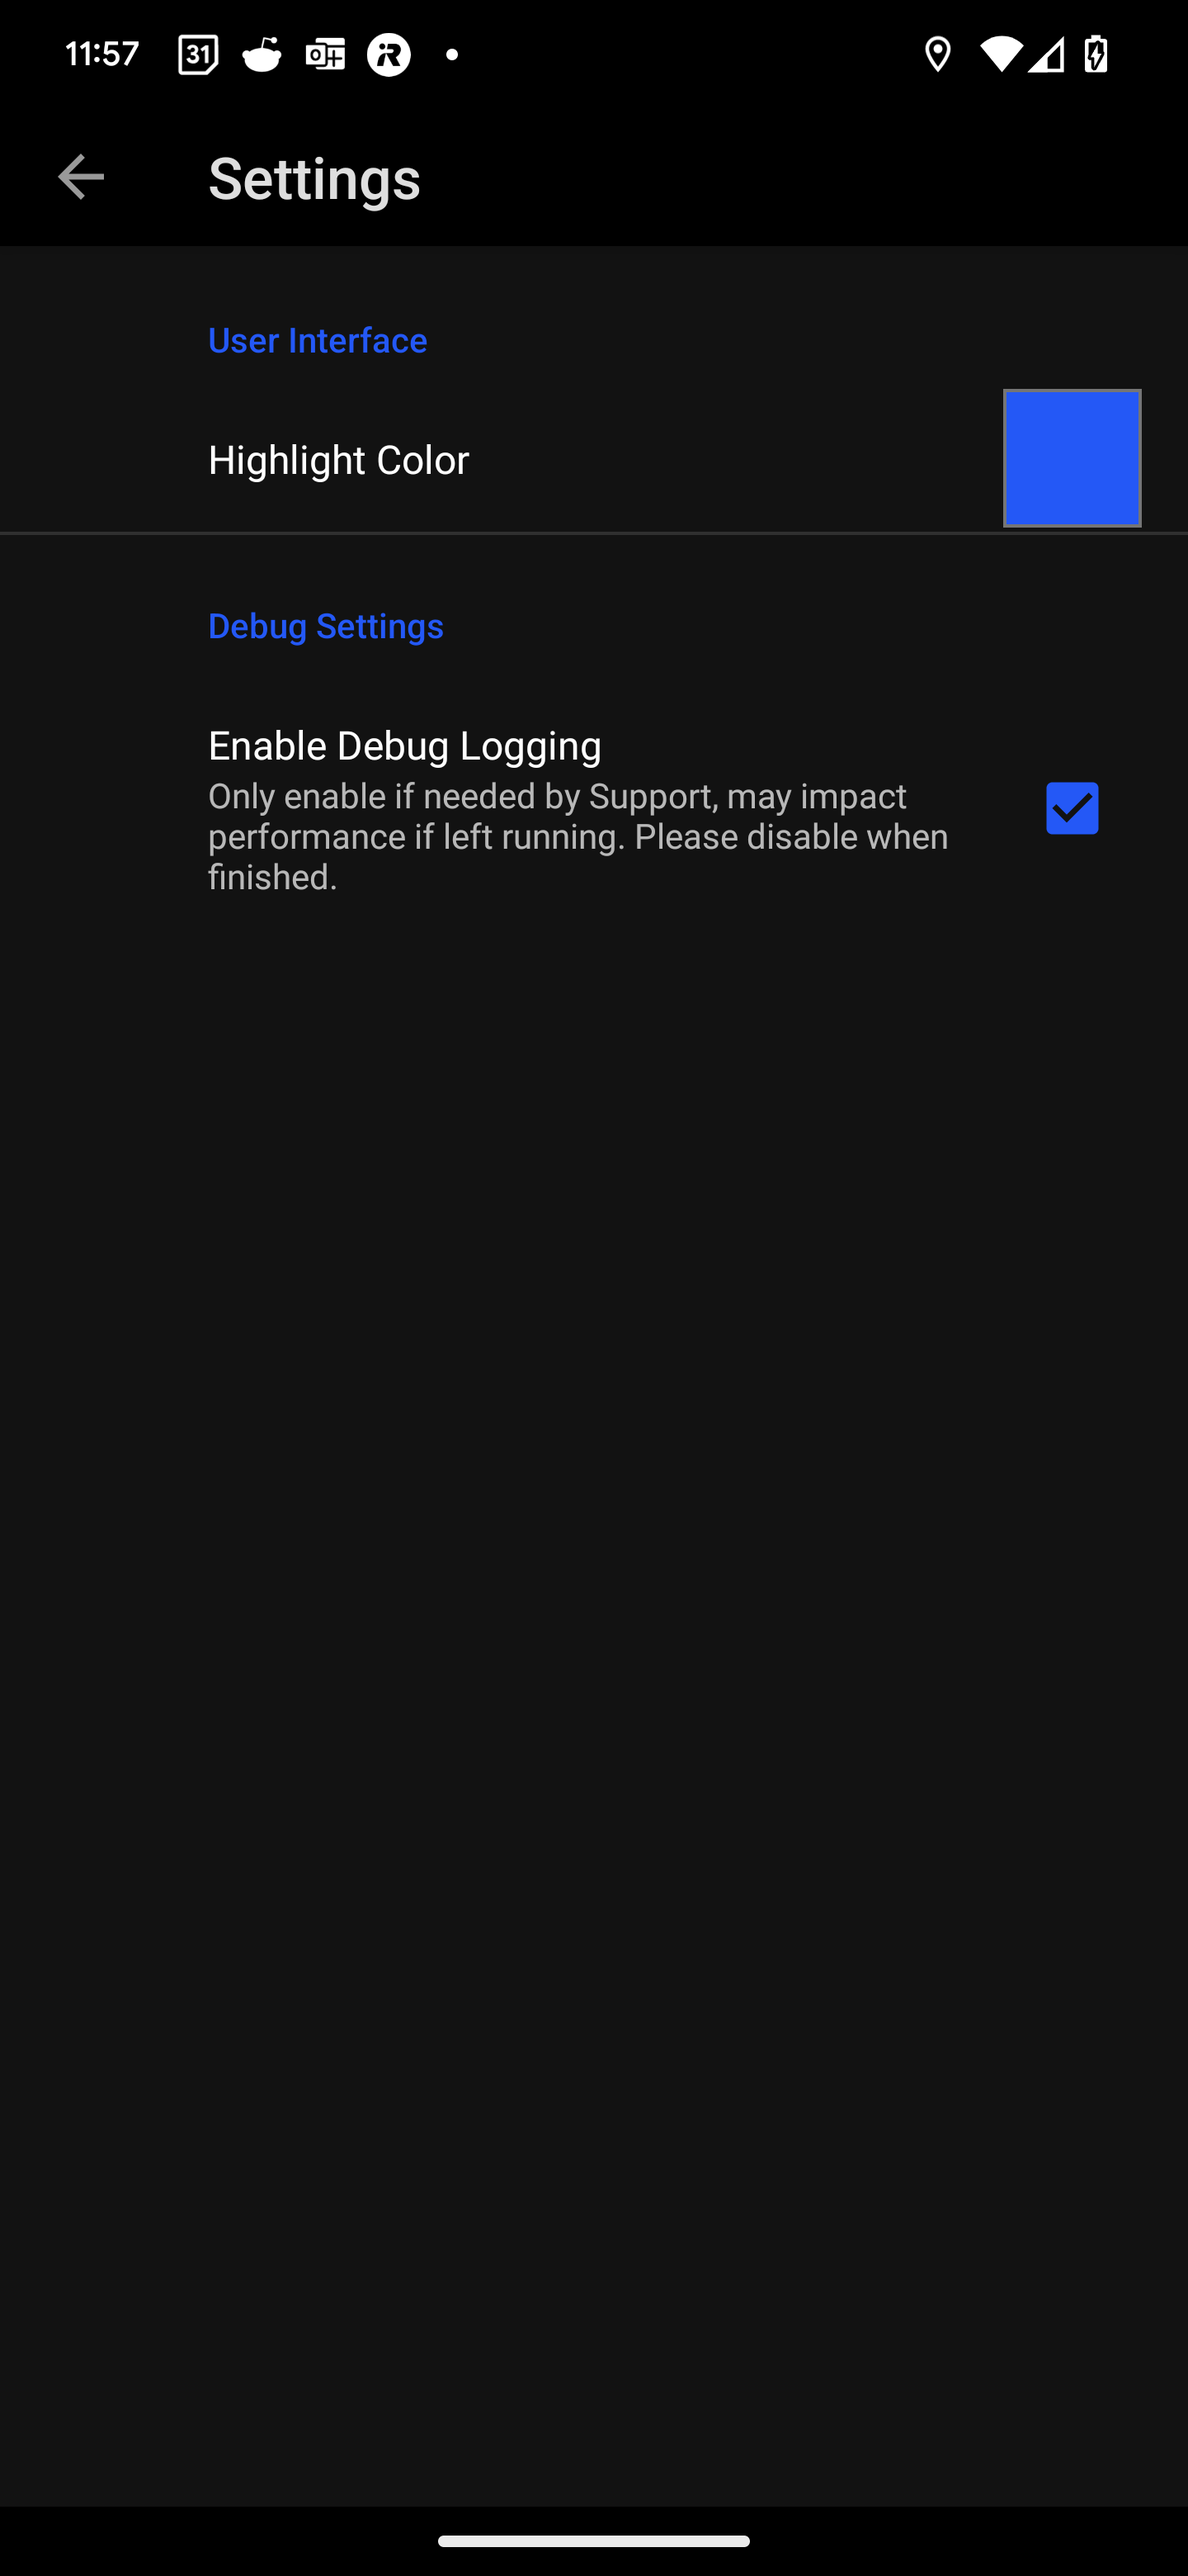
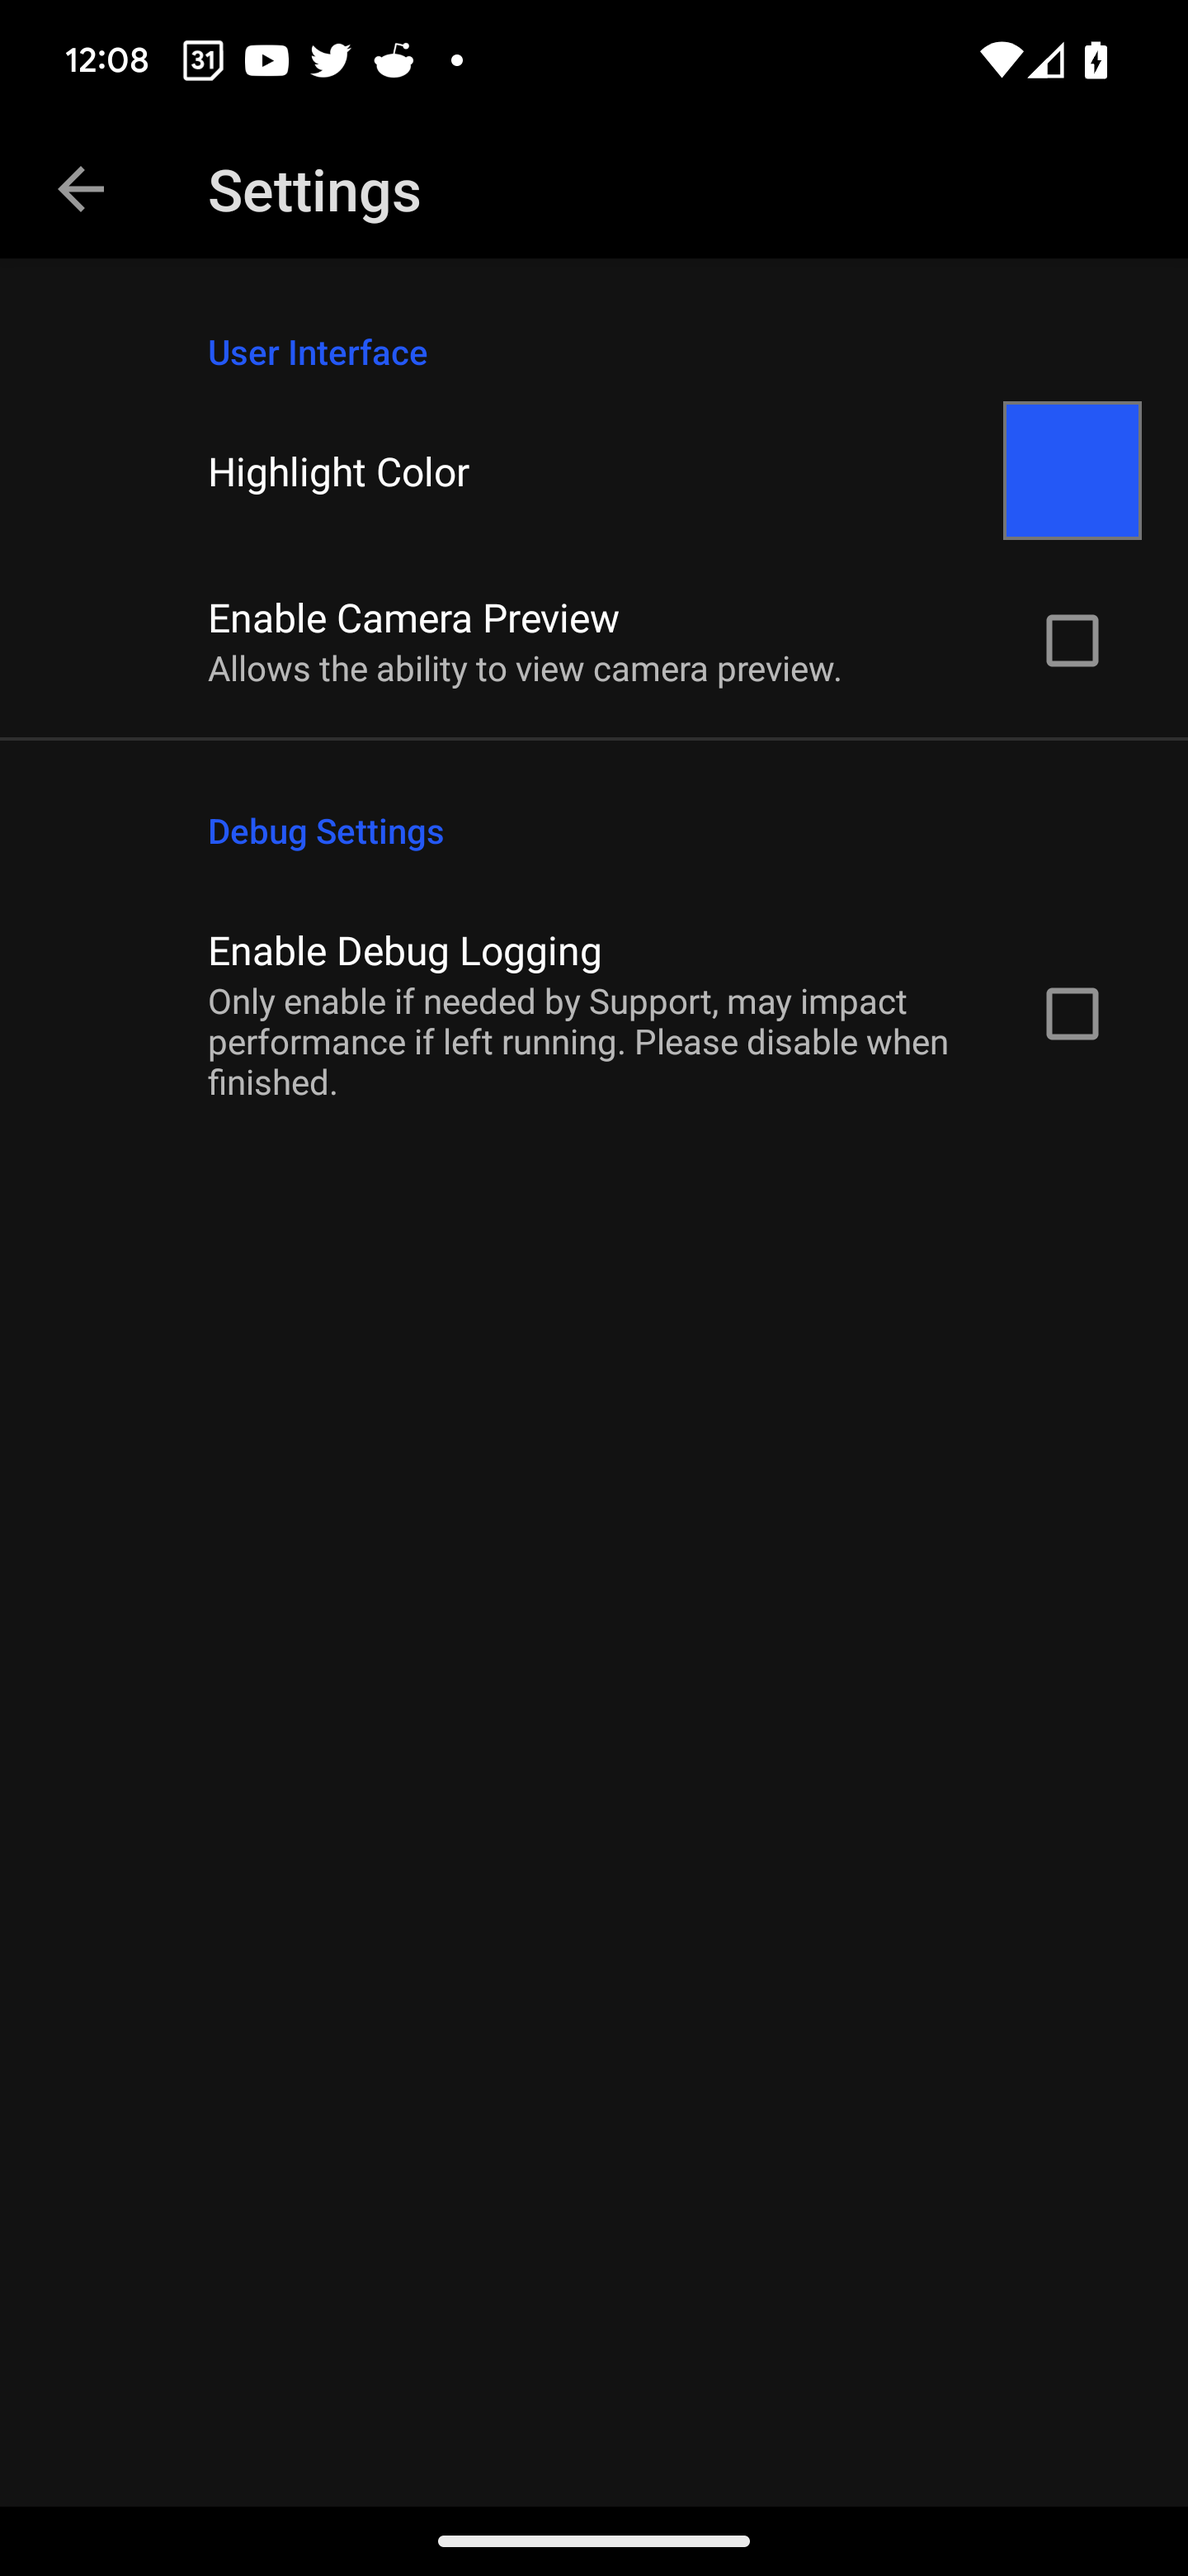
Add info on new camera preview option in camera apps

diff --git a/docs/en/index-gopro-ios.html b/docs/en/index-gopro-ios.html
@@ -367,6 +367,17 @@
                                         <td><strong>Highlight Color</strong></td>
                                         <td>Select your prefered highlight/accent color.</td>
                                     </tr>
+                                    <tr>
+                                        <td><strong>Enable Camera Preview</strong></td>
+                                        <td>Enable or disable camera preview.  This can be useful to prevent accidental launch of preview when riding.</td>
+                                    </tr>
+                                </table>
+                                <p>Debug Settings</p>
+                                <table id="table-list" style="width:100%">
+                                    <tr>
+                                        <td><strong>Enable Debug Logging:</strong></td>
+                                        <td>Only enable if requested, and should be shut off when you are done.  May cause performance issues if left on.</td>
+                                    </tr>
                                 </table>
                             </div>
 

diff --git a/docs/pl/index-gopro-ios.html b/docs/pl/index-gopro-ios.html
@@ -367,6 +367,17 @@
                                         <td><strong>Kolor podkreślenia</strong></td>
                                         <td>Wybierz swój ulubiony kolor podświetlenia.</td>
                                     </tr>
+                                    <tr>
+                                        <td><strong>APP_SETTINGS_PREVIEW_TITLE</strong></td>
+                                        <td>APP_SETTINGS_PREVIEW_DESC</td>
+                                    </tr>
+                                </table>
+                                <p>Ustawienia błędów</p>
+                                <table id="table-list" style="width:100%">
+                                    <tr>
+                                        <td><strong>Włącz zapis logów z błędami:</strong></td>
+                                        <td>Włącz tylko w konieczności i wyłącz jeżeli niepotrzebne. Może powodować problemy z wydajnością jeśli zostawisz włączone.</td>
+                                    </tr>
                                 </table>
                             </div>
 

diff --git a/docs/de/index-gopro-ios.html b/docs/de/index-gopro-ios.html
@@ -367,6 +367,17 @@
                                         <td><strong>Auswahl-Farbe</strong></td>
                                         <td>Wähle Deine bevorzugte Auswahlfarbe.</td>
                                     </tr>
+                                    <tr>
+                                        <td><strong>APP_SETTINGS_PREVIEW_TITLE</strong></td>
+                                        <td>APP_SETTINGS_PREVIEW_DESC</td>
+                                    </tr>
+                                </table>
+                                <p>Debugging-Einstellungen</p>
+                                <table id="table-list" style="width:100%">
+                                    <tr>
+                                        <td><strong>Debugging-Protokoll aktivieren:</strong></td>
+                                        <td>Nur auf Anforderung aktivieren und anschließend wieder deaktivieren. Bei dauerhafter Aktivierung kann es zu Leistungsproblemen kommen.</td>
+                                    </tr>
                                 </table>
                             </div>
 

diff --git a/docs/hu/index-gopro-ios.html b/docs/hu/index-gopro-ios.html
@@ -367,6 +367,17 @@
                                         <td><strong>APP_SETTINGS_HIGHLIGHT_TITLE</strong></td>
                                         <td>APP_SETTINGS_HIGHLIGHT_DESC</td>
                                     </tr>
+                                    <tr>
+                                        <td><strong>APP_SETTINGS_PREVIEW_TITLE</strong></td>
+                                        <td>APP_SETTINGS_PREVIEW_DESC</td>
+                                    </tr>
+                                </table>
+                                <p>APP_SETTINGS_DEBUG_TITLE</p>
+                                <table id="table-list" style="width:100%">
+                                    <tr>
+                                        <td><strong>APP_SETTINGS_LOGGING_TITLE</strong></td>
+                                        <td>APP_SETTINGS_LOGGING_DESC</td>
+                                    </tr>
                                 </table>
                             </div>
 

diff --git a/templates/index-gopro-ios.html b/templates/index-gopro-ios.html
@@ -367,6 +367,17 @@
                                         <td><strong>APP_SETTINGS_HIGHLIGHT_TITLE</strong></td>
                                         <td>APP_SETTINGS_HIGHLIGHT_DESC</td>
                                     </tr>
+                                    <tr>
+                                        <td><strong>APP_SETTINGS_PREVIEW_TITLE</strong></td>
+                                        <td>APP_SETTINGS_PREVIEW_DESC</td>
+                                    </tr>
+                                </table>
+                                <p>APP_SETTINGS_DEBUG_TITLE</p>
+                                <table id="table-list" style="width:100%">
+                                    <tr>
+                                        <td><strong>APP_SETTINGS_LOGGING_TITLE</strong></td>
+                                        <td>APP_SETTINGS_LOGGING_DESC</td>
+                                    </tr>
                                 </table>
                             </div>
 

diff --git a/docs/en/index-gopro-android.html b/docs/en/index-gopro-android.html
@@ -368,6 +368,10 @@
                                         <td><strong>Highlight Color</strong></td>
                                         <td>Select your prefered highlight/accent color.</td>
                                     </tr>
+                                    <tr>
+                                        <td><strong>Enable Camera Preview</strong></td>
+                                        <td>Enable or disable camera preview.  This can be useful to prevent accidental launch of preview when riding.</td>
+                                    </tr>
                                 </table>
                                 <p>Debug Settings</p>
                                 <table id="table-list" style="width:100%">

diff --git a/docs/en/index-insta360-android.html b/docs/en/index-insta360-android.html
@@ -325,6 +325,10 @@
                                         <td><strong>Highlight Color</strong></td>
                                         <td>Select your prefered highlight/accent color.</td>
                                     </tr>
+                                    <tr>
+                                        <td><strong>Enable Camera Preview</strong></td>
+                                        <td>Enable or disable camera preview.  This can be useful to prevent accidental launch of preview when riding.</td>
+                                    </tr>
                                 </table>
                                 <p>Debug Settings</p>
                                 <table id="table-list" style="width:100%">

diff --git a/docs/en/index-insta360-ios.html b/docs/en/index-insta360-ios.html
@@ -325,6 +325,10 @@
                                         <td><strong>Highlight Color</strong></td>
                                         <td>Select your prefered highlight/accent color.</td>
                                     </tr>
+                                    <tr>
+                                        <td><strong>Enable Camera Preview</strong></td>
+                                        <td>Enable or disable camera preview.  This can be useful to prevent accidental launch of preview when riding.</td>
+                                    </tr>
                                 </table>
                                 <p>Debug Settings</p>
                                 <table id="table-list" style="width:100%">

diff --git a/docs/pl/index-gopro-android.html b/docs/pl/index-gopro-android.html
@@ -368,6 +368,10 @@
                                         <td><strong>Kolor podkreślenia</strong></td>
                                         <td>Wybierz swój ulubiony kolor podświetlenia.</td>
                                     </tr>
+                                    <tr>
+                                        <td><strong>APP_SETTINGS_PREVIEW_TITLE</strong></td>
+                                        <td>APP_SETTINGS_PREVIEW_DESC</td>
+                                    </tr>
                                 </table>
                                 <p>Ustawienia błędów</p>
                                 <table id="table-list" style="width:100%">

diff --git a/docs/pl/index-insta360-android.html b/docs/pl/index-insta360-android.html
@@ -325,6 +325,10 @@
                                         <td><strong>Kolor podkreślenia</strong></td>
                                         <td>Wybierz swój ulubiony kolor podświetlenia.</td>
                                     </tr>
+                                    <tr>
+                                        <td><strong>APP_SETTINGS_PREVIEW_TITLE</strong></td>
+                                        <td>APP_SETTINGS_PREVIEW_DESC</td>
+                                    </tr>
                                 </table>
                                 <p>Ustawienia błędów</p>
                                 <table id="table-list" style="width:100%">

diff --git a/docs/pl/index-insta360-ios.html b/docs/pl/index-insta360-ios.html
@@ -325,6 +325,10 @@
                                         <td><strong>Kolor podkreślenia</strong></td>
                                         <td>Wybierz swój ulubiony kolor podświetlenia.</td>
                                     </tr>
+                                    <tr>
+                                        <td><strong>APP_SETTINGS_PREVIEW_TITLE</strong></td>
+                                        <td>APP_SETTINGS_PREVIEW_DESC</td>
+                                    </tr>
                                 </table>
                                 <p>Ustawienia błędów</p>
                                 <table id="table-list" style="width:100%">

diff --git a/docs/hu/index-gopro-android.html b/docs/hu/index-gopro-android.html
@@ -368,6 +368,10 @@
                                         <td><strong>APP_SETTINGS_HIGHLIGHT_TITLE</strong></td>
                                         <td>APP_SETTINGS_HIGHLIGHT_DESC</td>
                                     </tr>
+                                    <tr>
+                                        <td><strong>APP_SETTINGS_PREVIEW_TITLE</strong></td>
+                                        <td>APP_SETTINGS_PREVIEW_DESC</td>
+                                    </tr>
                                 </table>
                                 <p>APP_SETTINGS_DEBUG_TITLE</p>
                                 <table id="table-list" style="width:100%">
